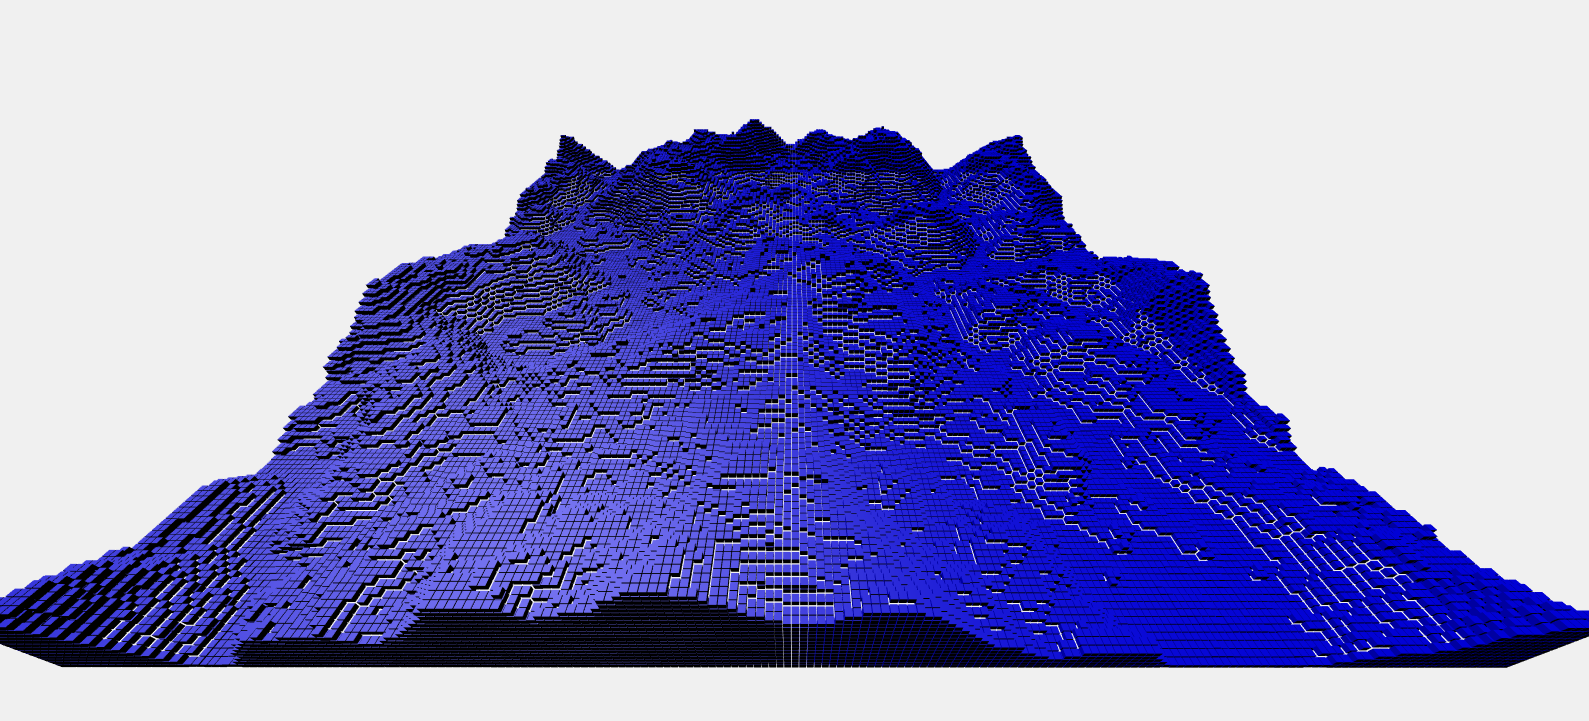
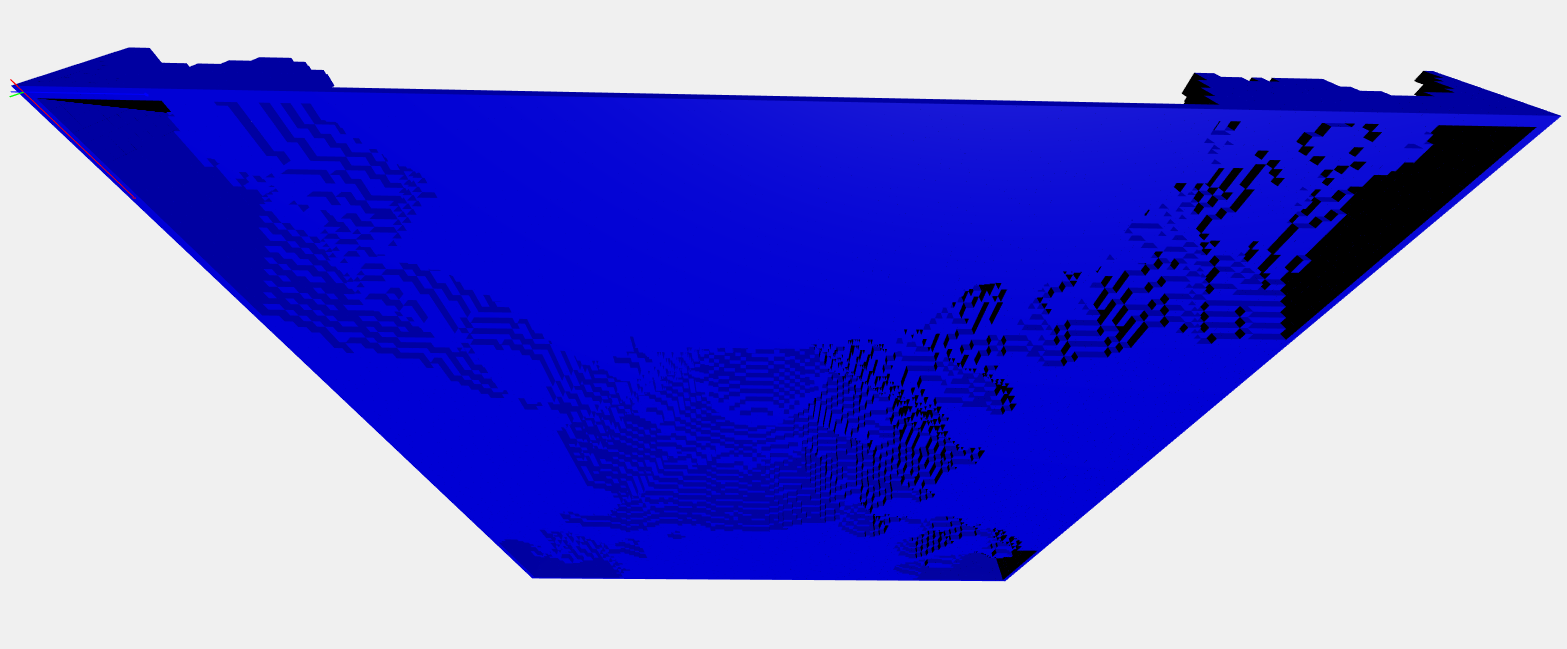
journal 2

diff --git a/journal.md b/journal.md
@@ -22,7 +22,7 @@ La funzione di caricamento dell'immagine e di lettura dei dati, poichè potrebbe
 
 Inizialmente la mappa è stata generata con parallelepipedi di altezza pari al valore presente in ogni pixel. Pensando poi all'applicazione delle texture di dimensione quadrata (e quindi adatte ad un cubo), si è deciso di utilizzare dei cubi di dimensione unitaria (nelle immagini ridotto per visualizzare la corretta creazione della griglia). In questo modo però è necessario aggiungere, per ogni posizione, un numero di cubi pari al valore di altezza massima della posizione / il lato del cubo selezionato.
 
-![mappa1](images/mappa2.png)
+![mappa1](images/mappa3.png)
 
 L'utilizzo dei cubi però ha portato ad primo problema, cioè l'aumento massiccio del numero di mesh da istanziare e visualizzare a schermo con evidente perdita di framerate. La soluzione è stata trovata tramite alcuni accorgimenti per diminuire il numero di cubi da utilizzare:
 - Non tutte le posizioni della griglia necessitano di cubi sottostanti, poichè essi non vengono visti a schermo
